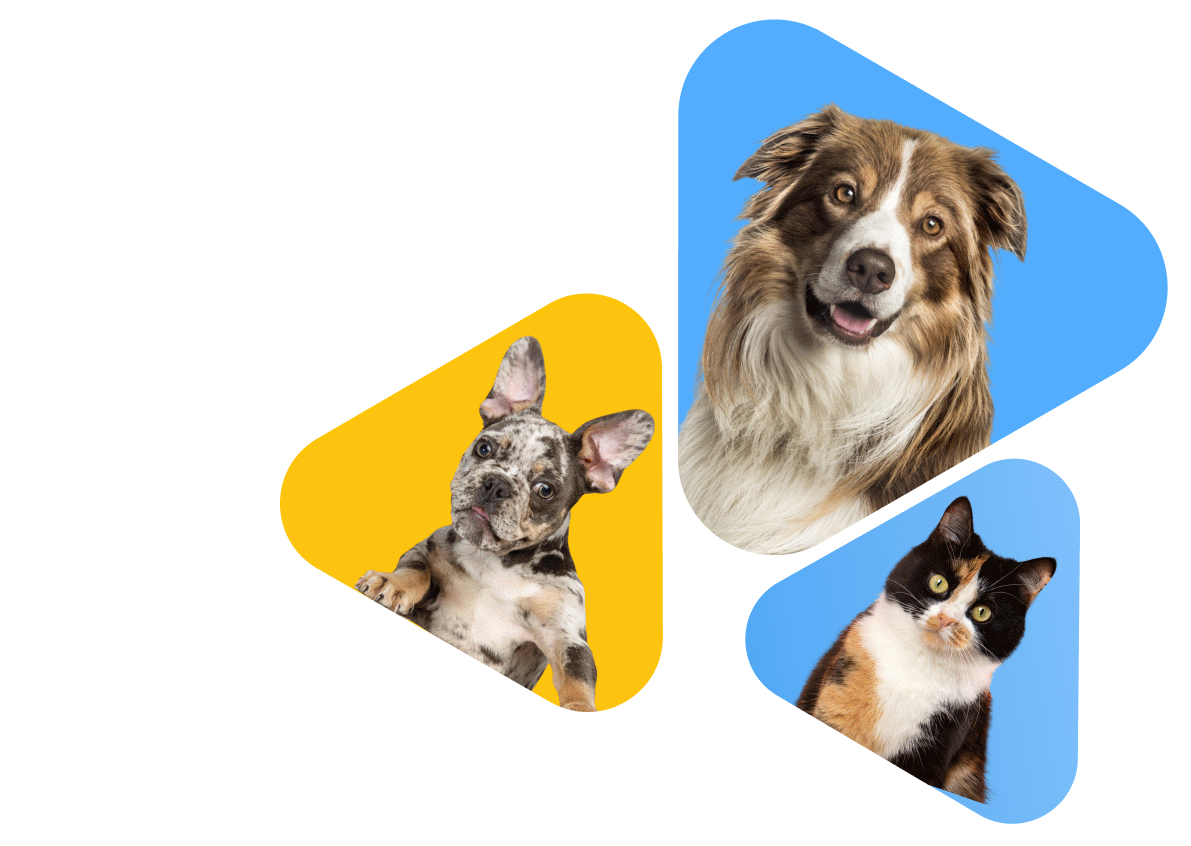
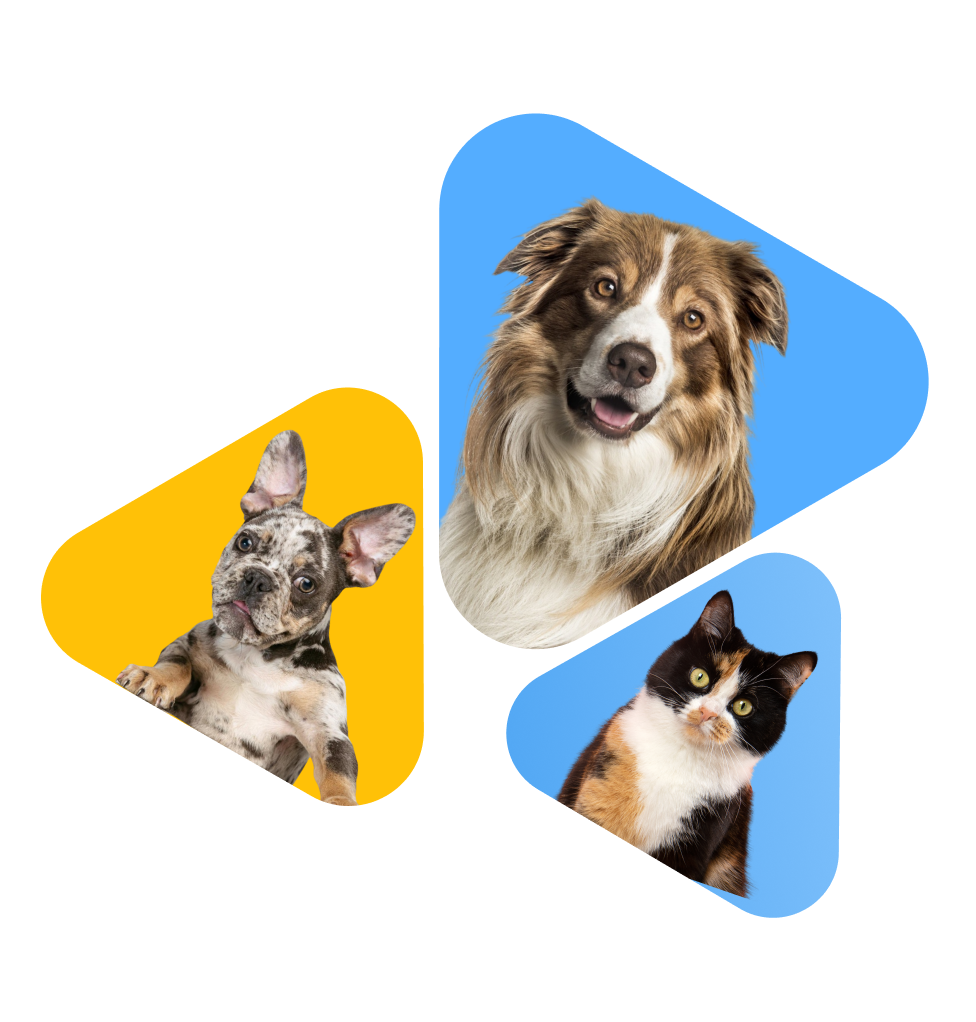
home-and-Not found-fix

diff --git a/src/pages/NotFoundPage/NotFoundPage.jsx b/src/pages/NotFoundPage/NotFoundPage.jsx
@@ -1,11 +1,8 @@
 import ToMainPageButton from '../../components/ToMainPageButton/ToMainPageButton';
 
 const NotFoundPage = () => {
-  
   return (
-    <div
-      className={`bg-not-found-page-mobi bg-no-repeat bg-center h-[400px] md:bg-not-found-page-tablet md:h-[600px] xl:bg-not-found-page-desctop  xl:h-[480px]`}
-    >
+    <div>
       <div
         className="block w-screen text-center text-black text-2xl font-bold font-['Manrope'] mt-[64px]
 		md:flex md:place-content-center md:w-[768px] md:text-neutral-900 md:text-[32px] md:font-smibold md:leading-[41.60px] xl:w-[1280px] xl:text-[32px] xl:mt-[44px] "
@@ -13,7 +10,30 @@ const NotFoundPage = () => {
         <span> Ooops!</span>
         <h2>This page not found :(</h2>
       </div>
-      <ToMainPageButton  />
+
+      <picture>
+        {/* <source
+          srcset="/src/images/not_found_page/not_found_page_mobi.png"
+          media="(max-width: 767px)"
+          className="object-cover min-w-[280px] object-center"
+        />
+        <source
+          srcset="/src/images/not_found_page/not_found_page_tablet.png"
+          media="(min-width: 768px)"
+          className="object-cover w-[704px] object-center"
+        />
+        <source
+          srcset="/src/images/not_found_page/not_found_page_desctop.png"
+          media="(min-width: 1280px)"
+          className="object-cover w-[822px] object-center"
+        /> */}
+        <img
+          src="/src/images/not_found_page/not_found_page_desctop.png"
+          alt="Сute dogs and cat"
+          className=" mt-11   min-w-[280px] md:min-w-[704px] "
+        />
+      </picture>
+      <ToMainPageButton />
     </div>
   );
 };

diff --git a/src/pages/MainPage/MainPage.jsx b/src/pages/MainPage/MainPage.jsx
@@ -2,16 +2,34 @@ import { Container } from '../../ui/Container/Container';
 
 const MainPage = () => {
   return (
-    <div
-      className="bg-main-page-mobi h-screen bg-no-repeat bg-cover bg-bottom 
-    md:bg-center md:bg-contain md:bg-main-page-tablet 
-    xl:bg-top xl:bg-main-page-desctop"
-    >
+    <div>
       <Container>
         <h1 className="w-[280px] text-black text-[32px] mt-[44px] font-bold font-['Manrope'] leading-[44px] md:w-[588px] md:text-[68px] md:mt-[88px] md:leading-[100px] xl:w-[501px] xl:text-neutral-900  xl:font-extrabold xl:leading-[88.40px]">
           Take good care of your small pets
         </h1>
       </Container>
+      <picture className="relative ">
+        <source
+          srcset="/src/images/main_img/main.png"
+          media="(max-width: 767px)"
+          className="min-w-[520px]  mt-8 -ml-24"
+        />
+        <source
+          srcset="/src/images/main_img/main@2x.png"
+          media="(min-width: 768px)"
+          className="min-w-[900px] -ml-16 -mt-20"
+        />
+        <source
+          srcset="/src/images/main_img/main@3x.png"
+          media="(min-width: 1280px)"
+          className="absolute w-[680px] -mt-[420px] ml-72"
+        />
+        <img
+          src="/src/images/main_img/main@3x.png"
+          alt="Сute dogs and cat"
+          className="min-w-[520px]  mt-8 -ml-24 md:min-w-[900px] md:-ml-16 md:-mt-20 xl:absolute xl:w-[680px] xl:-mt-[420px] xl:ml-72"
+        />
+      </picture>
     </div>
   );
 };

diff --git a/src/components/ToMainPageButton/ToMainPageButton.jsx b/src/components/ToMainPageButton/ToMainPageButton.jsx
@@ -6,7 +6,7 @@ const ToMainPageButton = () => {
   const navigate = useNavigate();
   return (
     <div
-      className="cursor-pointer mx-auto w-[248px] mt-[263px] flex justify-center items-center h-10 px-7 py-2  bg-gradient-to-r from-blue to-blue  rounded-[40px] gap-3 shadow z-10 flex-row-reverse  md:mt-[458px] md:px-5 md:py-2 md:gap-[6px] xl:mt-[380px] xl:center hover:blue-gradient focus:blue-gradient"
+      className="cursor-pointer mx-auto w-[248px] mt-11 flex justify-center items-center h-10 px-7 py-2  bg-gradient-to-r from-blue to-blue  rounded-[40px] gap-3 shadow z-10 flex-row-reverse  md:mt-18 md:px-5 md:py-2 md:gap-[6px] xl:mt-[16px] xl:center hover:blue-gradient focus:blue-gradient"
       onClick={() => navigate('/')}
     >
       <div className="w-6 h-[21px] md:h-6 justify-center items-center inline-flex">
